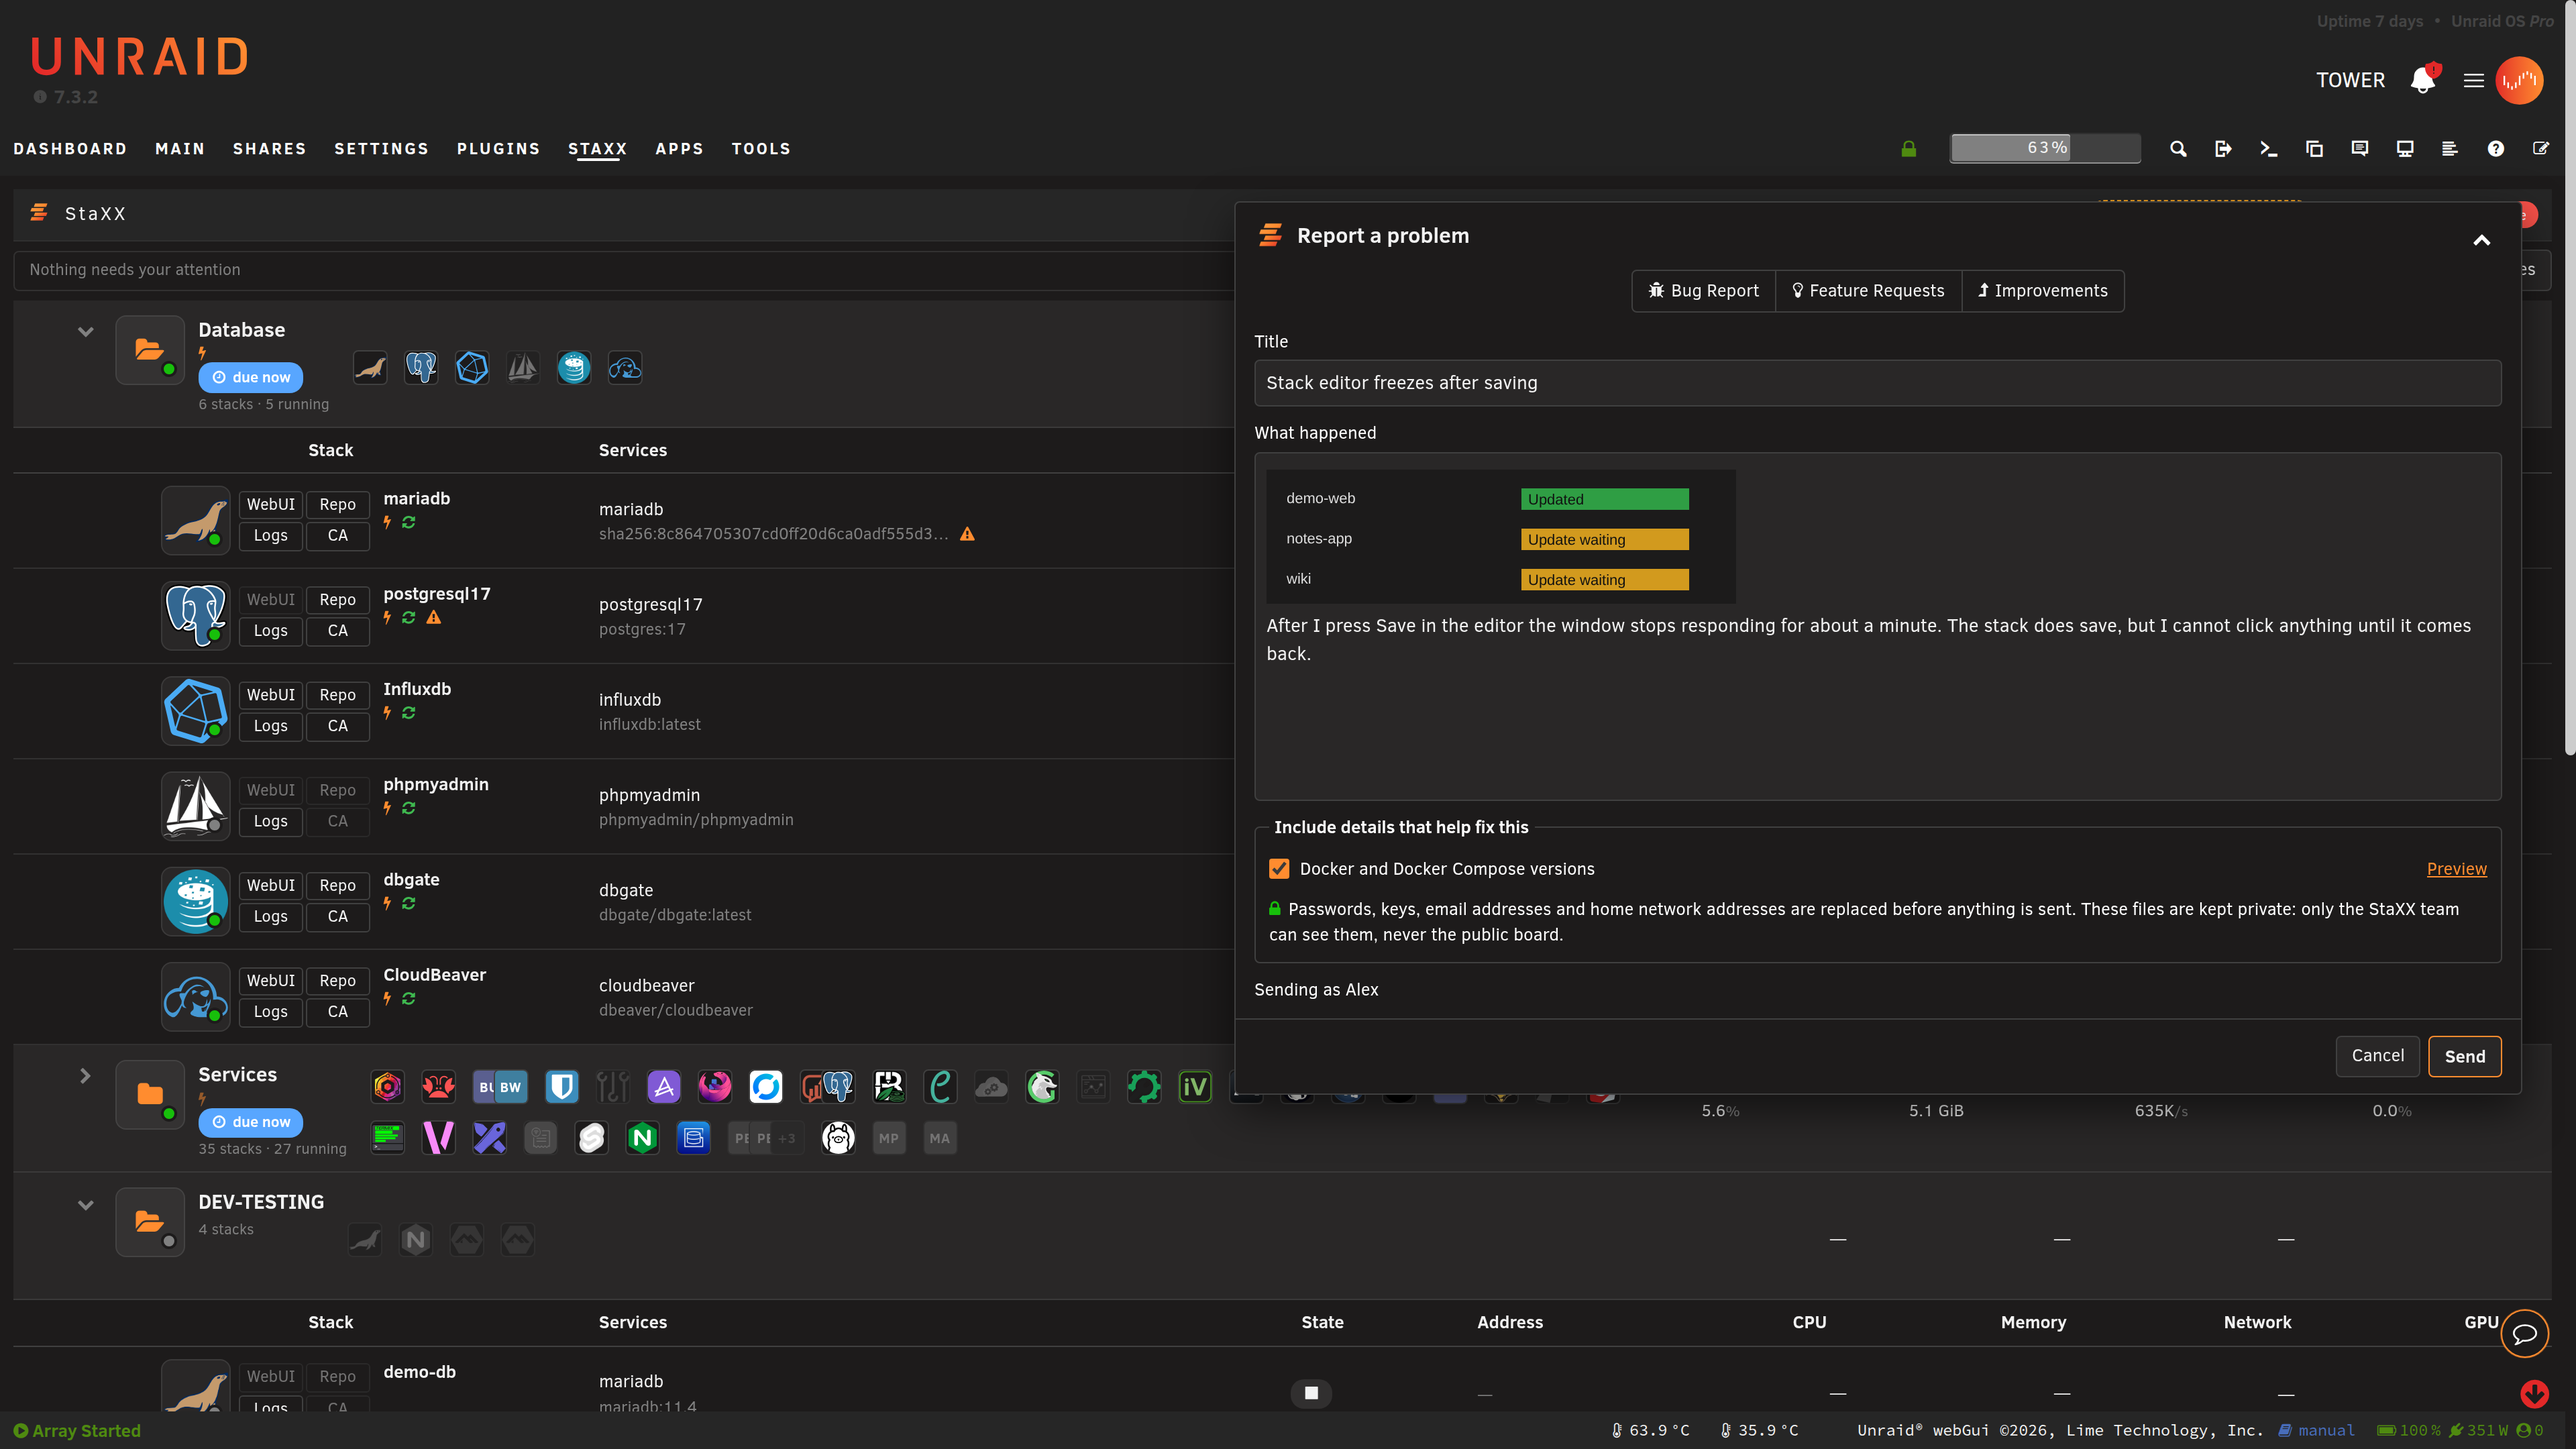
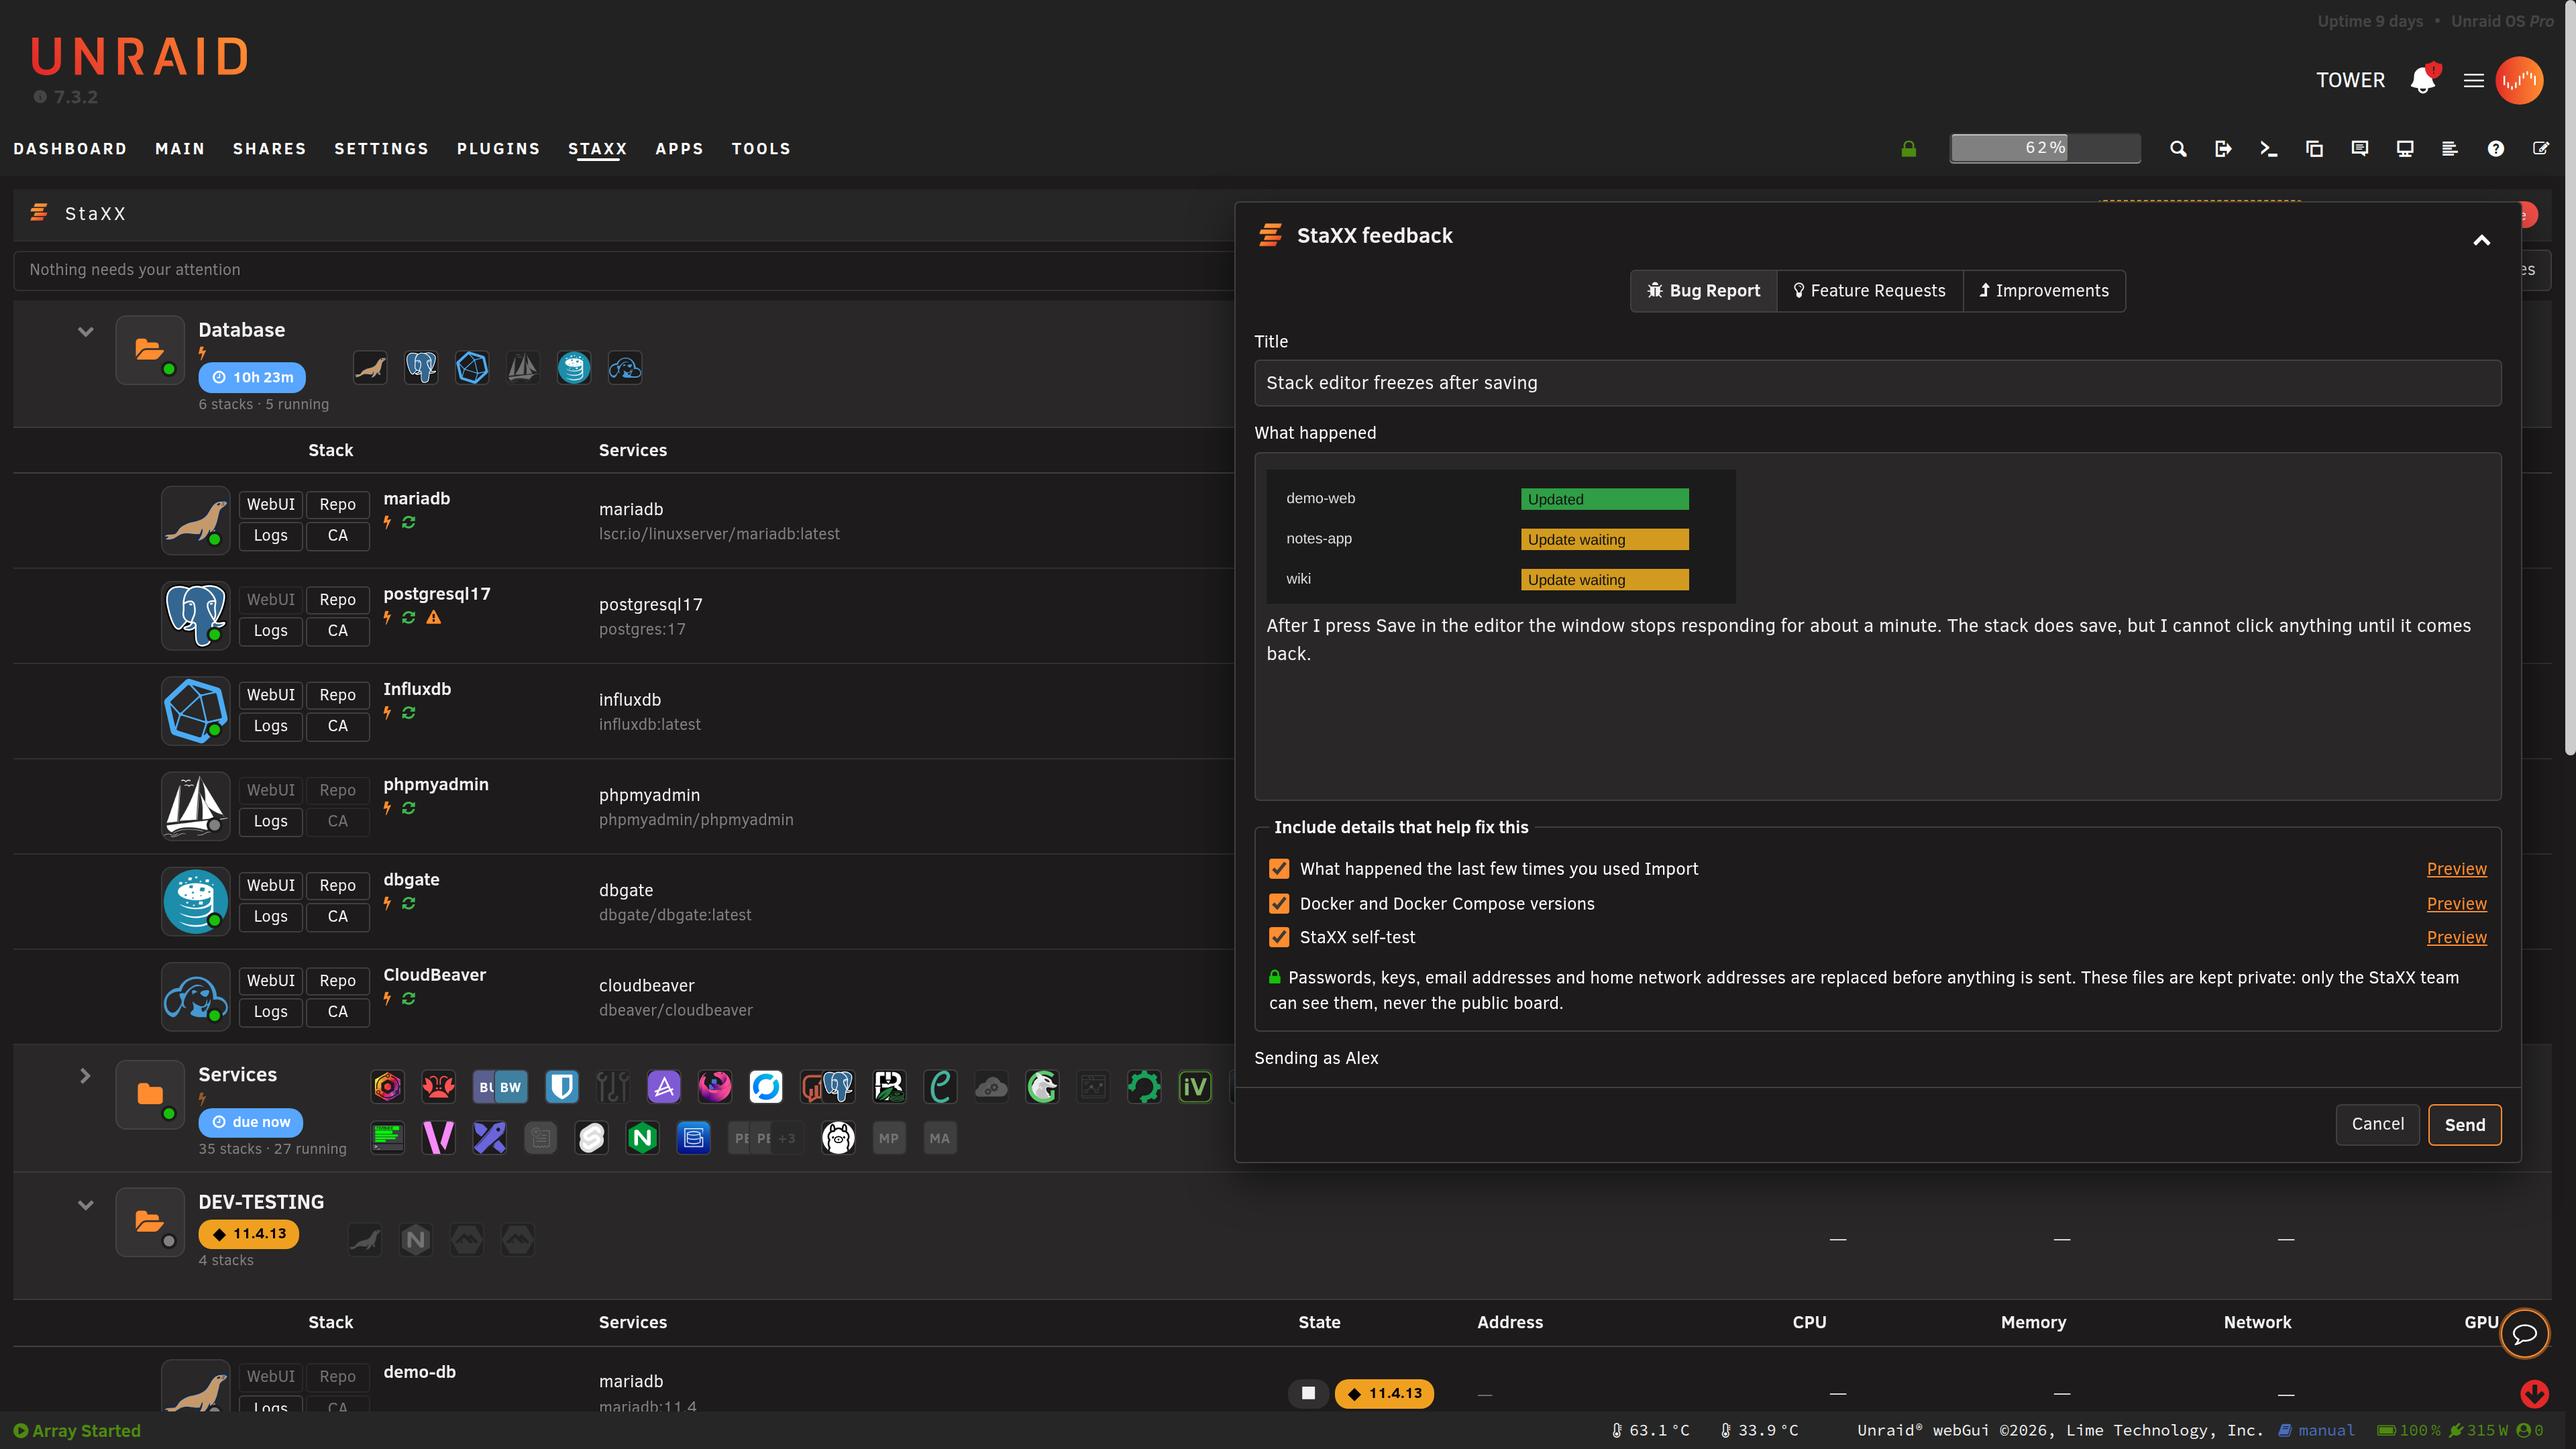
Guide: StaXX feedback window, choose a kind first, the self-test file, and retaken pictures (PLAN_213)
Claude-Session: https://claude.ai/code/session_01P1YRrWifJ1tpeExJ9ovCp1

diff --git a/docs/guide/sending-feedback.md b/docs/guide/sending-feedback.md
@@ -35,9 +35,9 @@ StaXX then tells you that you are connected. Press **Write your report** to carr
 
 ## Write your report
 
-![The Report a problem window open over the stack list with Bug Report chosen, a title filled in, a pasted screenshot and a sentence in the box, the Include details that help fix this list, and Cancel and Send buttons.](../images/guide/sending-feedback-form.png)
+![The StaXX feedback window open over the stack list with Bug Report chosen, a title filled in, a pasted screenshot and a sentence in the box, the Include details that help fix this list, and Cancel and Send buttons.](../images/guide/sending-feedback-form.png)
 
-Choose what you are sending at the top of the window. Each kind goes to its own section of the board.
+Choose what you are sending at the top of the window first. Each kind goes to its own section of the board.
 
 | Kind | Use it for |
 |---|---|
@@ -45,7 +45,7 @@ Choose what you are sending at the top of the window. Each kind goes to its own 
 | **Feature Requests** | Something StaXX does not do yet that you would like it to. |
 | **Improvements** | Something that works but could work better. |
 
-![The top of the report window with Feature Requests chosen, so the window title reads Suggest a feature and the box heading reads What would you like StaXX to do?](../images/guide/sending-feedback-kinds.png)
+![The top of the report window with Feature Requests chosen, with the window title StaXX feedback and the box heading What would you like StaXX to do?](../images/guide/sending-feedback-kinds.png)
 
 Give the report a title
 and write what you want to say in the box. Press Ctrl+V to paste a screenshot into it.
@@ -54,7 +54,7 @@ The window floats above the page. Drag it by its top bar to move it. Press the u
 of the window to roll it up to the top of the screen while you take a screenshot of the page
 underneath. Press the down arrow to bring it back.
 
-![The report window rolled up into a small Report a problem bar at the top middle of the screen, with a band of the Unraid header and the toolbar below it.](../images/guide/sending-feedback-rolled-up.png)
+![The report window rolled up into a small StaXX feedback bar at the top middle of the screen, with a band of the Unraid header and the toolbar below it.](../images/guide/sending-feedback-rolled-up.png)
 
 **Cancel** asks before throwing the report away. **Keep writing** takes you back to it.
 
@@ -62,7 +62,7 @@ underneath. Press the down arrow to bring it back.
 
 ## Details that help fix a bug
 
-![The report window open over a stack editor, with the Include details that help fix this box showing two ticked files, each with a Preview link, and the note that they are kept private.](../images/guide/sending-feedback-details.png)
+![The report window open over a stack editor, with the Include details that help fix this box showing four ticked files (the stack's compose file, the Import record, the versions and the StaXX self-test), each with a Preview link, and the note that they are kept private.](../images/guide/sending-feedback-details.png)
 
 A **Bug Report** has an **Include details that help fix this** box under the text. Tick the files
 you want to send. Which files are offered depends on where you are. On a stack's editor, for
